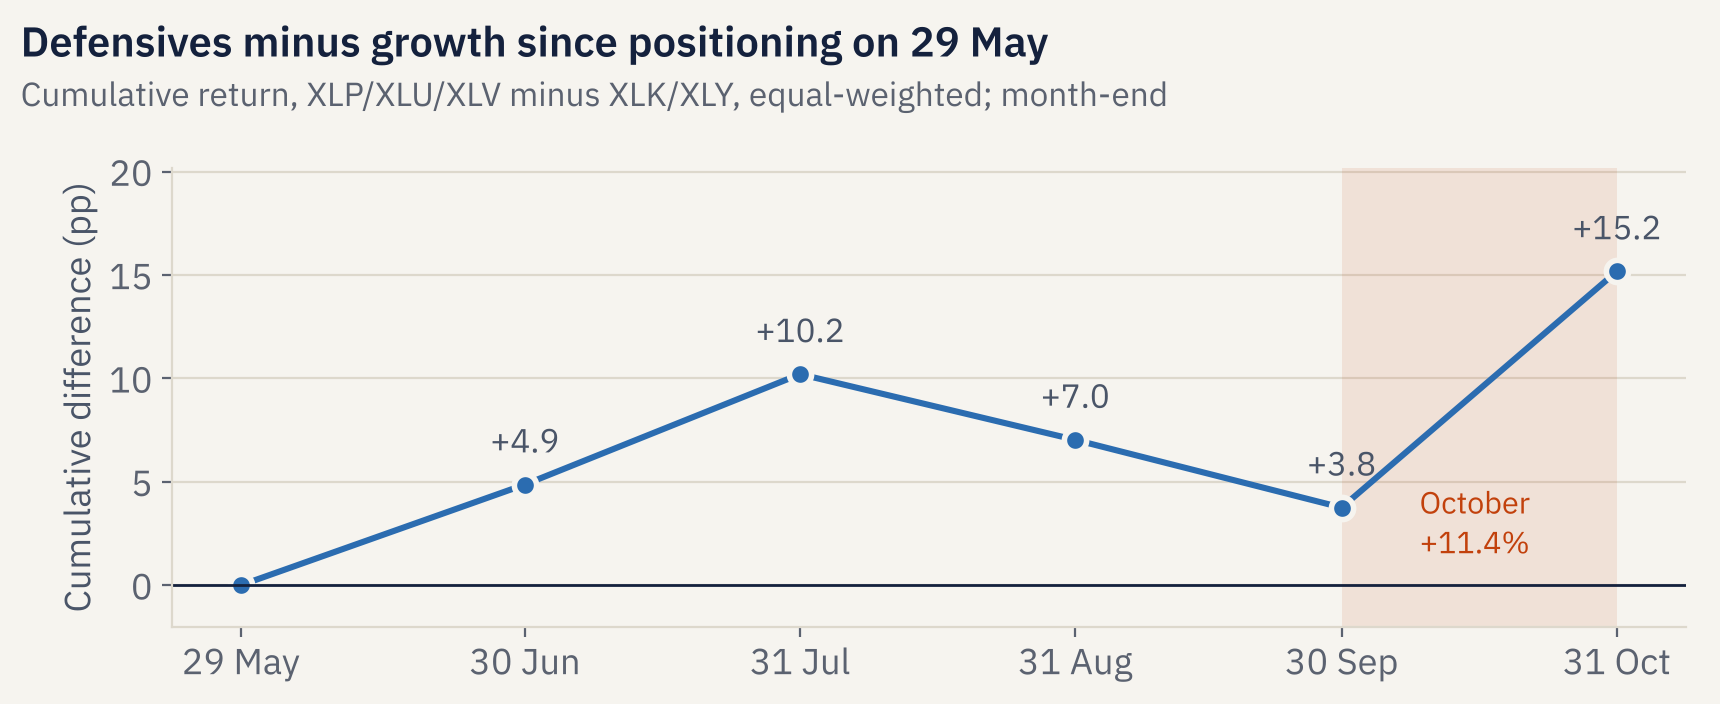
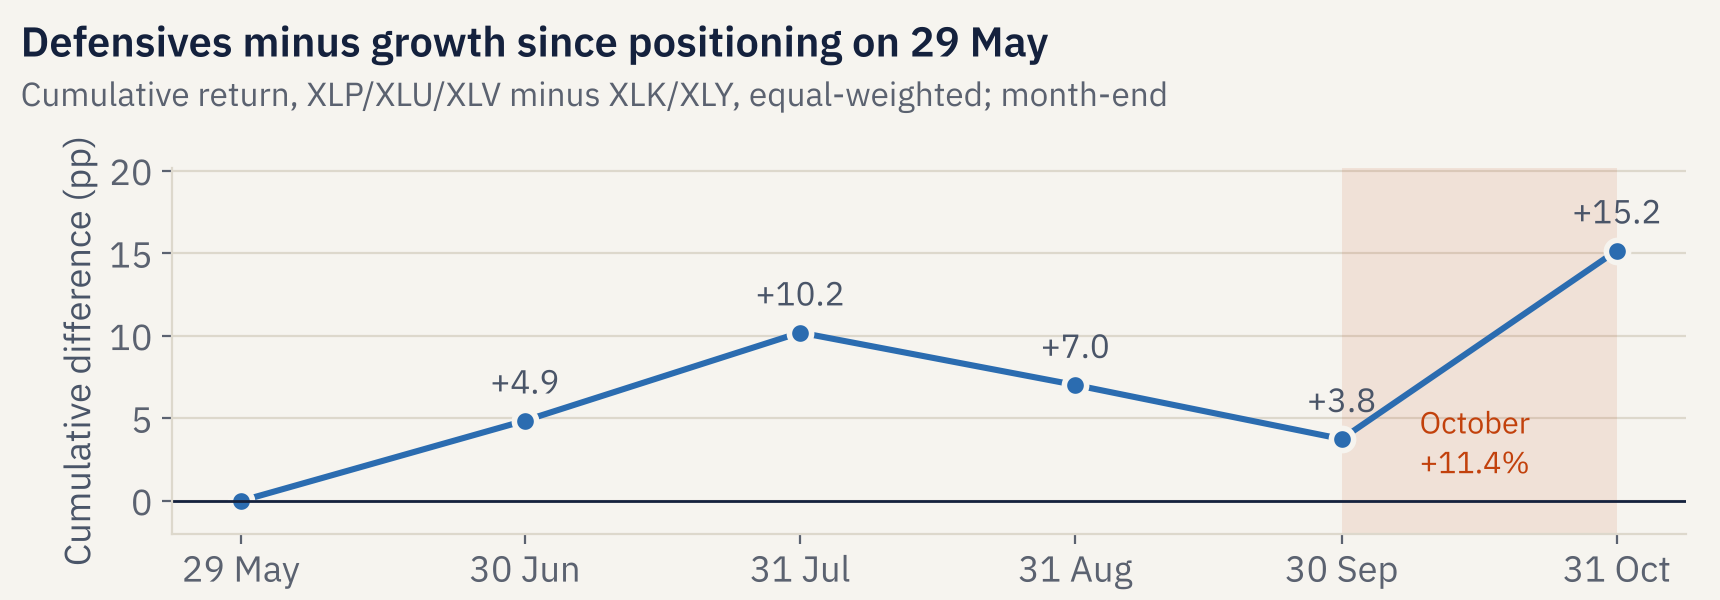
Deck visuals: add Visuals 4 and 7, fit four charts to their exact slots
Visual 4 (forward P/E premium, with median of history to date) and Visual 7
(sector P/E percentile vs revisions, defensives labelled with forward P/E)
restyle the Module 7 outputs in the deck palette. Visuals 3, 5, 8 and 9 are
resized to their slide boxes (1040x290, 860x300, 860x440, 820x440).

Claude-Session: https://claude.ai/code/session_01XvrXAsh1HuWmDaJG6Ek6Ku

diff --git a/src/deck_visuals.py b/src/deck_visuals.py
@@ -3,7 +3,7 @@ Deck visuals for the TOPDOWN2 final presentation (13 Nov 2026).
 
     python -m src.deck_visuals
 
-Draws eight presentation charts from the FROZEN data (branch freeze-2026-11-04) and writes them to
+Draws ten presentation charts from the FROZEN data (branch freeze-2026-11-04) and writes them to
 outputs/deck/. No data are downloaded and no model is re-estimated: every number is read from
 data/raw caches or from outputs/*.csv written by the modules in the freeze run.
 
@@ -12,14 +12,16 @@ dpi 200, i.e. 2x) and uses the deck's background and palette, so it can replace 
 
   deck_v01_active_weights.png     Visual 1   current active weights vs IVV       weighting_weights.csv
   deck_v03_wti_2026.png           Visual 3   WTI daily, 2026, conflict events      data/raw/DCOILWTICO.csv
+  deck_v04_pe_premium.png         Visual 4   growth vs defensive fwd P/E premium   valuation_signals.csv
   deck_v05_def_minus_grw.png      Visual 5   defensives minus growth since 29 May  data/raw/prices_monthly.csv
   deck_v06_decomposition.png      Visual 6   (def - mkt) and (grw - mkt) legs      tournament_baseline.csv
+  deck_v07_valuation_revisions.png Visual 7  sector fwd P/E percentile vs revisions valuation_sectors.csv
   deck_v08_oil_collapse_loss.png  Visual 8   oil-glut loss by XLE active weight    energy_stress.csv, weighting_weights.csv
   deck_v09_weights_before_after.png Visual 9 active weights, current vs Base       weighting_weights.csv
   deck_v10_scenario_returns.png   Visual 10  3-month active return by scenario     consistency_scenario_payoffs.csv
   deck_v11_trigger_readings.png   Visual 11  review triggers: reading vs threshold T10YIE, DCOILWTICO, cycle_state, valuation_sectors
 
-Visual 4 and Visual 7 are module outputs (outputs/valuation_gap.png, outputs/valuation_sectors.png).
+Visuals 4 and 7 restyle Module 7 outputs (outputs/valuation_gap.png, outputs/valuation_sectors.png).
 Visual 2 (CPI composition) needs BLS energy-CPI data that are not cached; Visual 12 has no source in the repo.
 
 Conventions follow the models: DEF = XLP/XLU/XLV, GRW = VGT/XLY with XLK as the VGT proxy (the target
@@ -136,14 +138,14 @@ EVENTS = [("2026-02-28", "War begins", "left", 0), ("2026-04-08", "Ceasefire", "
 def v03():
     w = pd.read_csv(RAW / "DCOILWTICO.csv", index_col=0, parse_dates=True).iloc[:, 0].dropna()
     w = w.loc["2026-01-01":DECIDE]
-    fig, ax = figure(1040, 342)
+    fig, ax = figure(1040, 290)
     ax.plot(w.index, w.values, color=INK, lw=2)
     lo, hi = w.min(), w.max()
-    ax.set_ylim(lo - 8, hi + 22)
+    ax.set_ylim(lo - 6, hi + 26)
     for d, lab, ha, lvl in EVENTS:
         d = pd.Timestamp(d)
         ax.axvline(d, color=MUTED, lw=1, ls=(0, (3, 3)))
-        ax.text(d, hi + 20 - 9 * lvl, f" {lab} " if ha == "left" else f"{lab} ", fontsize=11, color=INK2,
+        ax.text(d, hi + 25 - 11 * lvl, f" {lab} " if ha == "left" else f"{lab} ", fontsize=11, color=INK2,
                 va="top", ha=ha)
     ax.plot(w.index[-1], w.iloc[-1], "o", ms=8, color=ORANGE, mec=BG, mew=2)
     ax.text(w.index[-1], w.iloc[-1] - 6, f"${w.iloc[-1]:.0f}", fontsize=12, color=INK, ha="right", va="top")
@@ -157,6 +159,57 @@ def v03():
     return w
 
 
+# ---- Visual 4 -------------------------------------------------------------------------------------
+def v04():
+    V = pd.read_csv(OUT / "valuation_signals.csv", index_col=0, parse_dates=True)
+    prem = (np.exp(V["gap"].dropna()) - 1) * 100            # gap = log(growth fwd P/E / defensive fwd P/E)
+    med = prem.expanding(min_periods=36).median()            # median of history known at each date
+    fig, ax = figure(952, 656)
+    ax.axhline(0, color=INK, lw=1)
+    ax.plot(prem.index, prem.values, color=ORANGE, lw=2, label="Growth premium over defensives")
+    ax.plot(med.index, med.values, color=INK, lw=1.4, ls=(0, (5, 3)), label="Median of history to date")
+    ax.plot(prem.index[-1], prem.iloc[-1], "o", ms=9, color=ORANGE, mec=BG, mew=2, zorder=3)
+    end = prem.index[-1] + pd.Timedelta(days=75)
+    ax.text(end, prem.iloc[-1] + 1.5, f"{prem.index[-1]:%b %Y}\n{pp(prem.iloc[-1], 0)}%", ha="left", va="bottom",
+            fontsize=12, color=INK, **BOLD)
+    ax.text(end, med.iloc[-1] - 1.5, f"Median\n{pp(med.iloc[-1], 0)}%", ha="left", va="top", fontsize=12, color=INK2)
+    ax.set_xlim(prem.index[0] - pd.Timedelta(days=120), prem.index[-1] + pd.Timedelta(days=900))
+    ax.set_ylabel("Forward P/E premium (%)"); ax.yaxis.grid(True); ax.set_axisbelow(True)
+    ax.legend(loc="upper left", bbox_to_anchor=(0.2, 1.0), fontsize=12)
+    title(fig, "Forward P/E premium of growth over defensives",
+          f"XLK and XLY vs XLP, XLU and XLV; monthly {prem.index[0]:%b %Y} – {prem.index[-1]:%b %Y}")
+    fig.subplots_adjust(left=0.085, right=0.98, bottom=0.07)
+    save(fig, "deck_v04_pe_premium.png", top=top_for(fig, True))
+    return prem, med
+
+
+# ---- Visual 7 -------------------------------------------------------------------------------------
+def v07():
+    T = pd.read_csv(OUT / "valuation_sectors.csv", index_col=0).drop(index="SPY", errors="ignore")
+    col = {t: (BLUE if t in DEF else ORANGE if t in ("XLK", "XLY") else GREY) for t in T.index}
+    fig, ax = figure(672, 656)
+    ax.axvline(50, color=RULE, lw=1.2); ax.axhline(0, color=INK, lw=1)
+    for t, r in T.iterrows():
+        ax.plot(r["pe_pct"], r["rev3"], "o", ms=12 if t in DEF else 10, color=col[t], mec=BG, mew=2, zorder=3)
+        lab = f"{t}  {r['fwd_pe']:.1f}x" if t in DEF else t
+        if t == "XLV":      # most expensive point: label below it, inside the frame
+            ax.text(104, r["rev3"] - 0.55, lab, fontsize=12, color=INK, va="top", ha="right", **BOLD)
+            continue
+        left = r["pe_pct"] > 85
+        ax.text(r["pe_pct"] + (-2 if left else 2), r["rev3"] + 0.35, lab, fontsize=12, color=INK, va="bottom",
+                ha="right" if left else "left", **(BOLD if t in DEF else {}))
+    ax.set_xlim(0, 105); ax.set_ylim(-1, max(18, T["rev3"].max() + 2))
+    ax.set_xlabel("Forward P/E percentile vs own history since 2006")
+    ax.set_ylabel("3-month change in forward EPS (%)")
+    ax.yaxis.grid(True); ax.set_axisbelow(True)
+    handles = [plt.Line2D([], [], marker="o", ls="", ms=10, color=c) for c in (BLUE, ORANGE, GREY)]
+    ax.legend(handles, ["Defensives (forward P/E)", "Growth", "Other"], loc="upper left", fontsize=11.5)
+    title(fig, "Valuation and earnings revisions by sector", "Bloomberg estimates as of 30 Sep 2026")
+    fig.subplots_adjust(left=0.12, right=0.97, bottom=0.10)
+    save(fig, "deck_v07_valuation_revisions.png", top=top_for(fig, True))
+    return T
+
+
 # ---- Visual 5 -------------------------------------------------------------------------------------
 def v05():
     r = pd.read_csv(RAW / "prices_monthly.csv", index_col=0, parse_dates=True).loc[:LAST_MONTH]
@@ -164,7 +217,7 @@ def v05():
     win = slice("2026-06-01", LAST_MONTH)
     cd, cg = (1 + D.loc[win]).cumprod() - 1, (1 + G.loc[win]).cumprod() - 1
     s = pd.concat([pd.Series([0.0], index=[ASOF]), (cd - cg) * 100])
-    fig, ax = figure(860, 352)
+    fig, ax = figure(860, 300)
     ax.axvspan(pd.Timestamp("2026-09-30"), pd.Timestamp("2026-10-31"), color=ORANGE, alpha=0.10, lw=0)
     ax.plot(s.index, s.values, color=BLUE, lw=2.2, marker="o", ms=8, mec=BG, mew=2)
     ax.axhline(0, color=INK, lw=1)
@@ -219,7 +272,7 @@ def v08():
              ("Full hedge", "Base (full hedge, post hoc)", GREY), ("Recommended", "Base (half hedge)", BLUE)]
     marks = [(lab, C.loc[k, "xle_active"], C.loc[k, "oil_crash_tail_pp"], c) for lab, k, c in marks]
     x = np.linspace(0, 7.5, 100)
-    fig, ax = figure(860, 465)
+    fig, ax = figure(860, 440)
     ax.axhspan(-1, 0, color=BLUE, alpha=0.07, lw=0)
     ax.plot(x, glut * x, color=INK, lw=2)
     ax.axhline(-1, color=ORANGE, lw=1.8, ls=(0, (5, 3)))
@@ -244,7 +297,7 @@ def v08():
 # ---- Visual 9 -------------------------------------------------------------------------------------
 def v09():
     A = active_weights().reindex(ORDER)
-    fig, ax = figure(820, 485)
+    fig, ax = figure(820, 440)
     y = np.arange(len(A))[::-1]; h = 0.38
     ax.barh(y + h / 2, A["Current"], height=h, color=GREY, edgecolor=BG, lw=1.5, label="Current")
     ax.barh(y - h / 2, A["Base"], height=h, color=BLUE, edgecolor=BG, lw=1.5, label="Recommended")
@@ -325,6 +378,8 @@ def main():
     print("\nDeck visuals from frozen data (freeze-2026-11-04)\n")
     v01()
     wti = v03()
+    prem, med = v04()
+    T7 = v07()
     s, oct_ = v05()
     d, g = v06()
     glut, marks = v08()
@@ -339,6 +394,8 @@ def main():
     print("  Active weights (Current -> Base): " + ", ".join(f"{t} {a:+.1f}->{b:+.1f}" for t, (a, b) in A.iterrows()))
     print("  Scenario returns (Current / Base): " + ", ".join(f"{s_}: {a:+.2f}/{b:+.2f}" for s_, (a, b) in P.iterrows()))
     print("  Triggers: " + "; ".join(f"{r[0]} = {r[1]} vs {r[3]:.2f}" for r in rows))
+    print(f"  P/E premium: {prem.iloc[-1]:+.1f}% vs median {med.iloc[-1]:+.1f}%; defensive fwd P/E "
+          + ", ".join(f"{t} {T7.loc[t, 'fwd_pe']:.1f}x (pct {T7.loc[t, 'pe_pct']:.0f})" for t in DEF))
     print(f"\nSaved to {DECK.relative_to(ROOT)}/\n")
 
 
